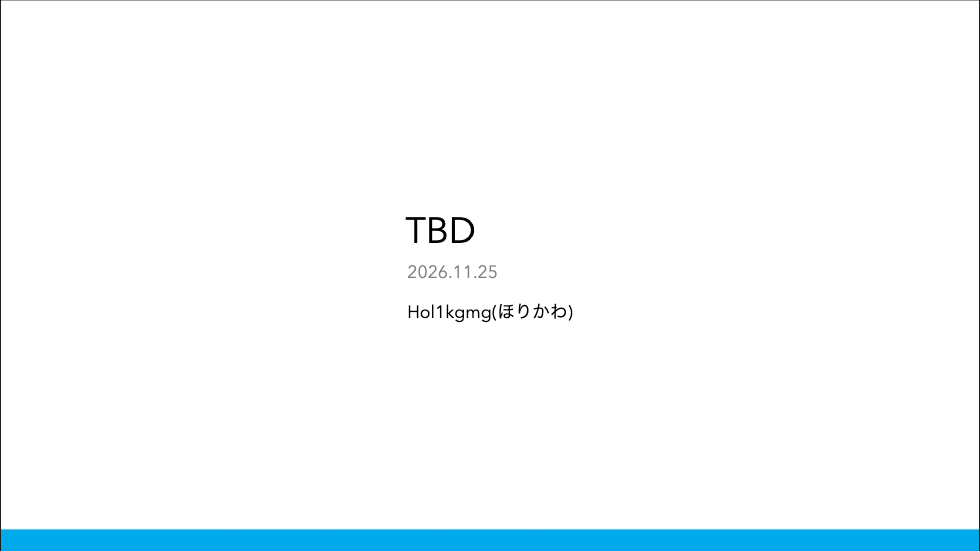
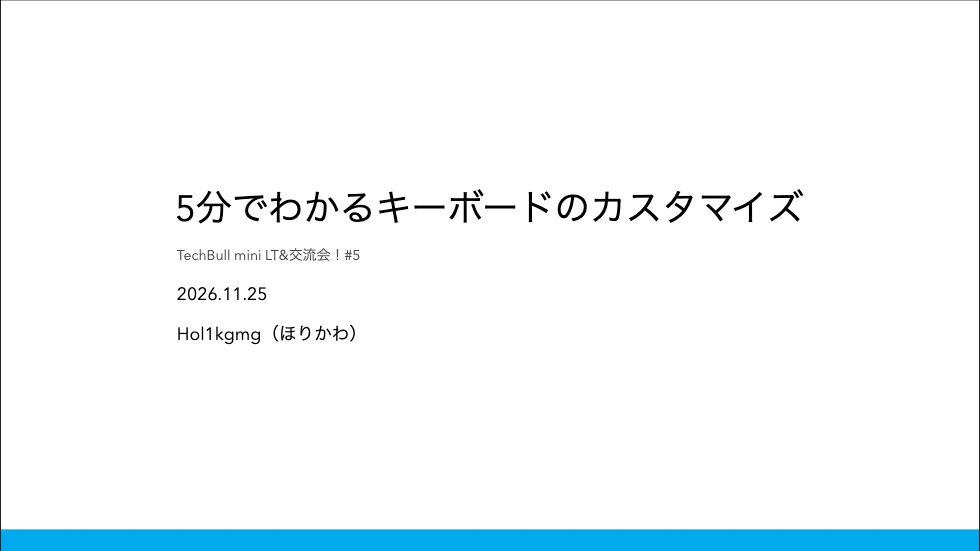
feat: 2026-11-25 を「5分でわかるキーボードのカスタマイズ」として、スイッチとキーキャップを選んだ理由とカスタマイズを話す構成にし、前回トークと my-keyboard をリンクカードで示す

diff --git a/2026-11-25/src/components/LinkCard.vue b/2026-11-25/src/components/LinkCard.vue
@@ -1,0 +1,17 @@
+<script setup lang="ts">
+import { computed } from 'vue'
+
+const props = defineProps<{
+  url: string
+  image: string
+}>()
+
+const resolvedImage = computed(() => `${import.meta.env.BASE_URL}${props.image.replace(/^\//, '')}`)
+</script>
+
+<template>
+  <a :href="url" target="_blank" rel="noreferrer" class="block w-120 mx-auto !no-underline !border-none !text-inherit">
+    <img :src="resolvedImage" :alt="url" class="block w-full aspect-[1200/630] object-cover rounded-xl border border-gray-300 shadow-sm">
+    <div class="mt-1 text-right text-xs opacity-60">{{ url }}</div>
+  </a>
+</template>

diff --git a/2026-11-25/src/slides.md b/2026-11-25/src/slides.md
@@ -8,18 +8,20 @@ mdc: true
 lang: ja
 favicon: /images/shared/Hol1kgmg_prof_img_round.webp
 routerMode: hash
-title: TBD
+title: 5分でわかるキーボードのカスタマイズ
 seoMeta:
-  ogDescription: "TechBull mini LT&交流会！#5。5分でキーボードのカスタマイズをまとめる話"
+  ogDescription: "TechBull mini LT&交流会！#5。キースイッチとキーキャップを選んだ理由と、そこに加えたカスタマイズの話"
   ogImage: auto
   twitterCard: summary_large_image
 ---
 
-# TBD
+# 5分でわかるキーボードのカスタマイズ
+
+<div class="text-sm opacity-70">TechBull mini LT&交流会！#5</div>
 
 2026.11.25
 
-Hol1kgmg(ほりかわ)
+Hol1kgmg（ほりかわ）
 
 ---
 layout: default
@@ -33,4 +35,85 @@ layout: default
 layout: default
 ---
 
+# 配列の話は前回しました
+
+<div class="h-4/5 flex flex-col items-center justify-center gap-6">
+  <LinkCard
+    url="https://talks.hol1kgmg.com/2026/keyboard-tech-stack-review/"
+    image="images/keyboard-tech-stack-review-og.webp"
+  />
+  <div class="text-2xl">今回はキースイッチとキーキャップの話をします</div>
+</div>
+
+---
+layout: default
+---
+
+# 私のキーボード
+
+<div class="h-4/5 flex items-center justify-center">
+  <LinkCard
+    url="https://my-keyboard.hol1kgmg.com/"
+    image="images/my-keyboard-og.webp"
+  />
+</div>
+
+<!--
+構成パーツ（サイトの「構成パーツ」欄と同じ）
+- キット: GOFORTY V2
+- キーキャップ: THT 98key White
+- スイッチ: Kailh Glacial Silver Switch（バネを45gに入れ替え）
+- ワッシャー: Rushbox Washer
+-->
+
+---
+layout: section
+---
+
+# キースイッチ
+
+---
+layout: default
+---
+
+# スイッチを選んだ理由
+
+<!-- TODO: Kailh Glacial Silver Switch を選んだ理由 -->
+
+---
+layout: default
+---
+
+# スイッチのカスタマイズ
+
+<!-- TODO: バネを45gに入れ替えた。元のバネの重さと、入れ替えて何が変わったか -->
+
+---
+layout: section
+---
+
+# キーキャップ
+
+---
+layout: default
+---
+
+# キーキャップを選んだ理由
+
+<!-- TODO: THT 98key White を選んだ理由 -->
+
+---
+layout: default
+---
+
+# キーキャップのカスタマイズ
+
+<!-- TODO: Rushbox Washer の役割。キーキャップ側の話でなければ、この枚で話す内容を決める -->
+
+---
+layout: default
+---
+
 # まとめ
+
+<!-- TODO: スイッチ・キーキャップそれぞれの「選んだ理由 → カスタマイズ」を振り返る -->

diff --git a/2026-11-25/src/memo.md b/2026-11-25/src/memo.md
@@ -1,16 +1,43 @@
-# TBD
+# 5分でわかるキーボードのカスタマイズ
 
 2026/11/25 TechBull mini LT&交流会！#5（5分・AIネタなし）
 https://techbull.connpass.com/event/409611/
 
 ## テーマ
 
-5分でキーボードのカスタマイズをまとめる話
+キースイッチとキーキャップを選んだ理由と、そこに加えたカスタマイズの話。配列・レイヤーは前回（2026-10-10）で話しているので扱わない
 
-## 対象
+## 流れ
 
-## 目的（聴衆に知ってもらうこと）
+スイッチを選んだ理由 → スイッチのカスタマイズ → キーキャップを選んだ理由 → キーキャップのカスタマイズ
 
-## 結論
+## 構成パーツ（https://my-keyboard.hol1kgmg.com/ より）
 
-## 構成
+| 部位 | パーツ | 備考 |
+|---|---|---|
+| キット | GOFORTY V2 | ロープロファイル、13×4 オーソリニア、51キー |
+| キーキャップ | THT 98key White | |
+| スイッチ | Kailh Glacial Silver Switch | バネを45gに入れ替え |
+| ワッシャー | Rushbox Washer | |
+
+## 構成（5分 / 11枚）
+
+| # | スライド | layout | 内容 | 状態 |
+|---|---|---|---|---|
+| 1 | タイトル | center | | 済 |
+| 2 | 自己紹介 | default | `<SelfIntro />` | 済 |
+| 3 | 配列の話は前回しました | default | 前回トークの `LinkCard` | 済 |
+| 4 | 私のキーボード | default | my-keyboard の `LinkCard`、パーツは発表者ノート | 済 |
+| 5 | キースイッチ | section | | 済 |
+| 6 | スイッチを選んだ理由 | default | Glacial Silver | 中身未定 |
+| 7 | スイッチのカスタマイズ | default | バネを45gに入れ替え | 中身未定 |
+| 8 | キーキャップ | section | | 済 |
+| 9 | キーキャップを選んだ理由 | default | THT 98key White | 中身未定 |
+| 10 | キーキャップのカスタマイズ | default | Rushbox Washer? | 中身未定 |
+| 11 | まとめ | default | | 未作成 |
+
+## 未決
+
+- スイッチを選んだ理由、元のバネの重さと45gにして変わったこと
+- キーキャップを選んだ理由
+- Rushbox Washer の役割（キーキャップ章で話す内容か）

diff --git a/2026-11-25/README.md b/2026-11-25/README.md
@@ -1,5 +1,5 @@
-# TBD
+# 5分でわかるキーボードのカスタマイズ
 
-2026/11/25 - TechBull mini LT&交流会！#5。5分でキーボードのカスタマイズをまとめる話
+2026/11/25 - TechBull mini LT&交流会！#5。キースイッチとキーキャップを選んだ理由と、そこに加えたカスタマイズの話
 
 https://techbull.connpass.com/event/409611/
